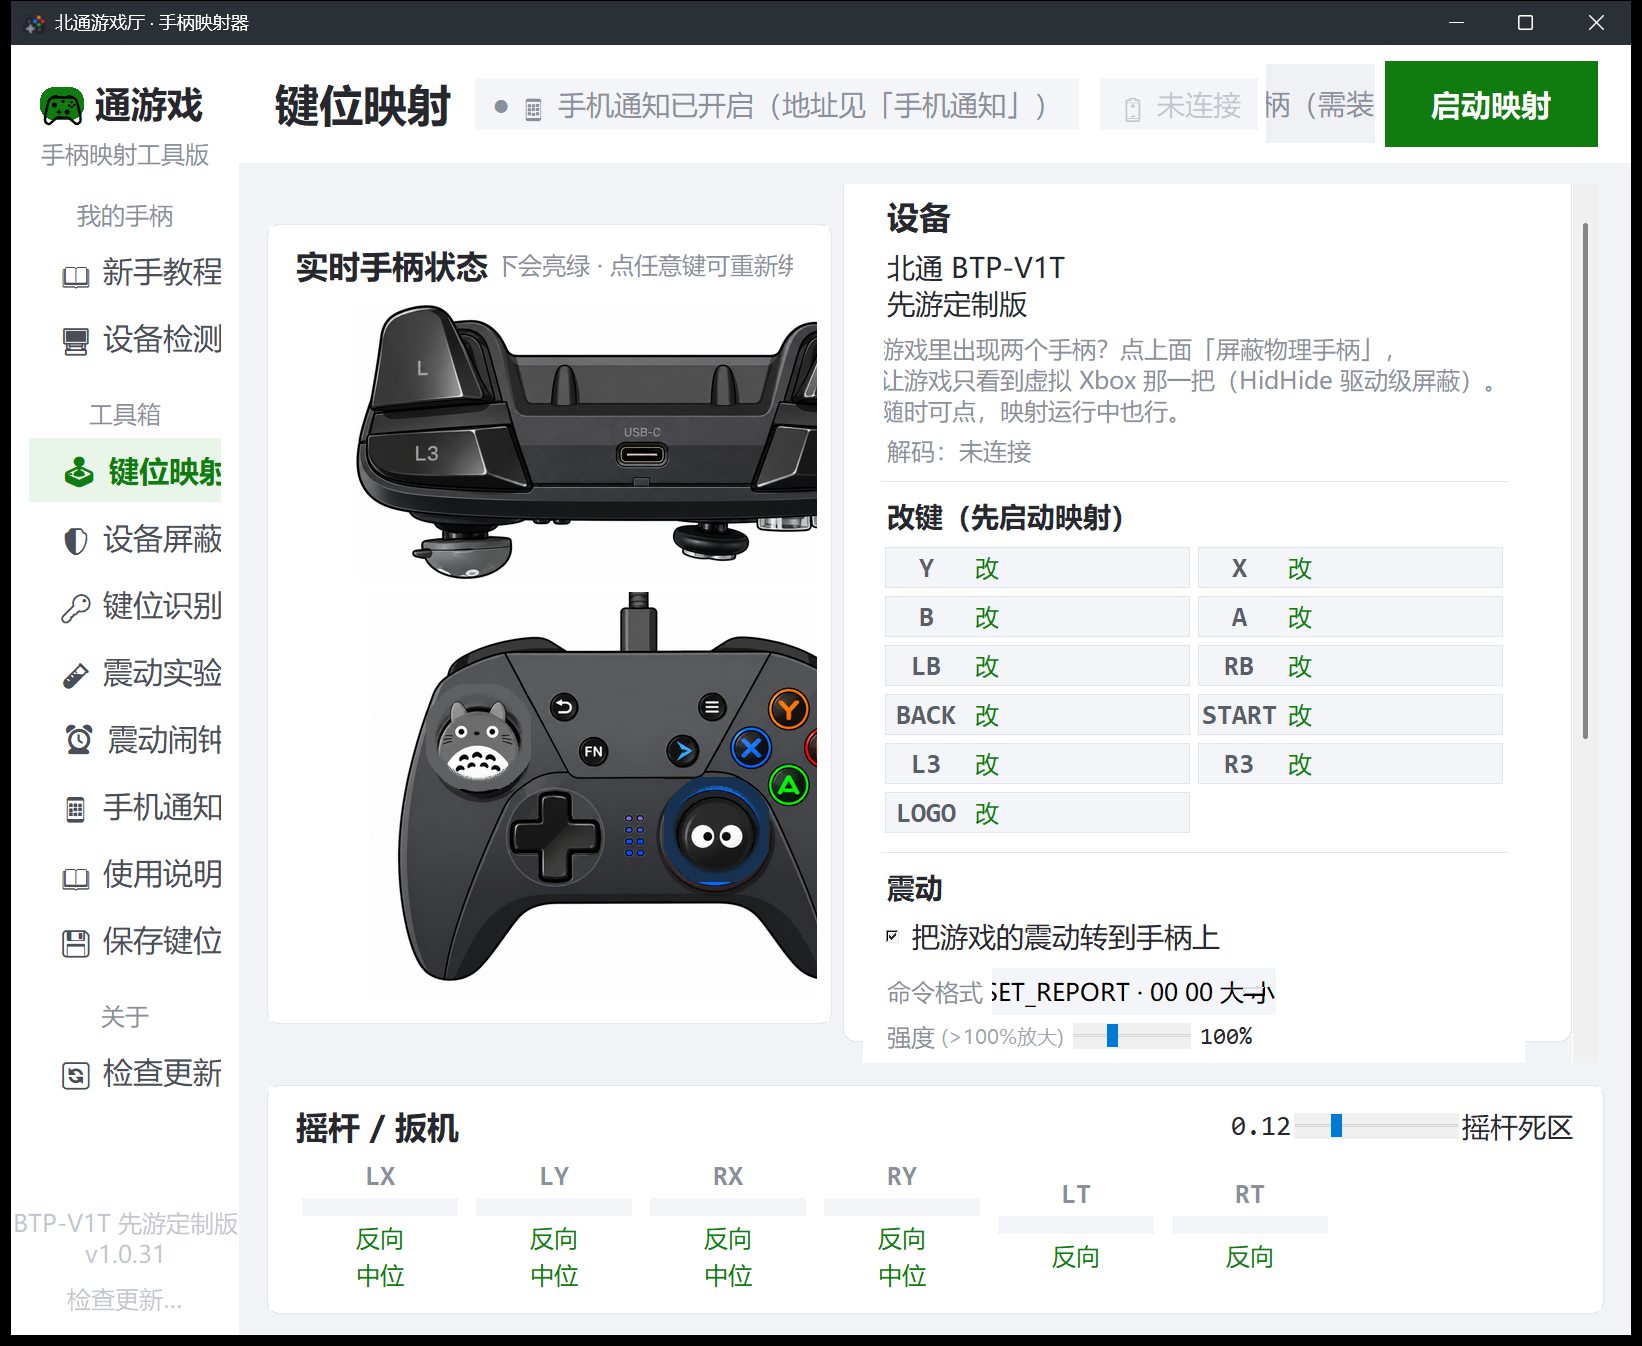
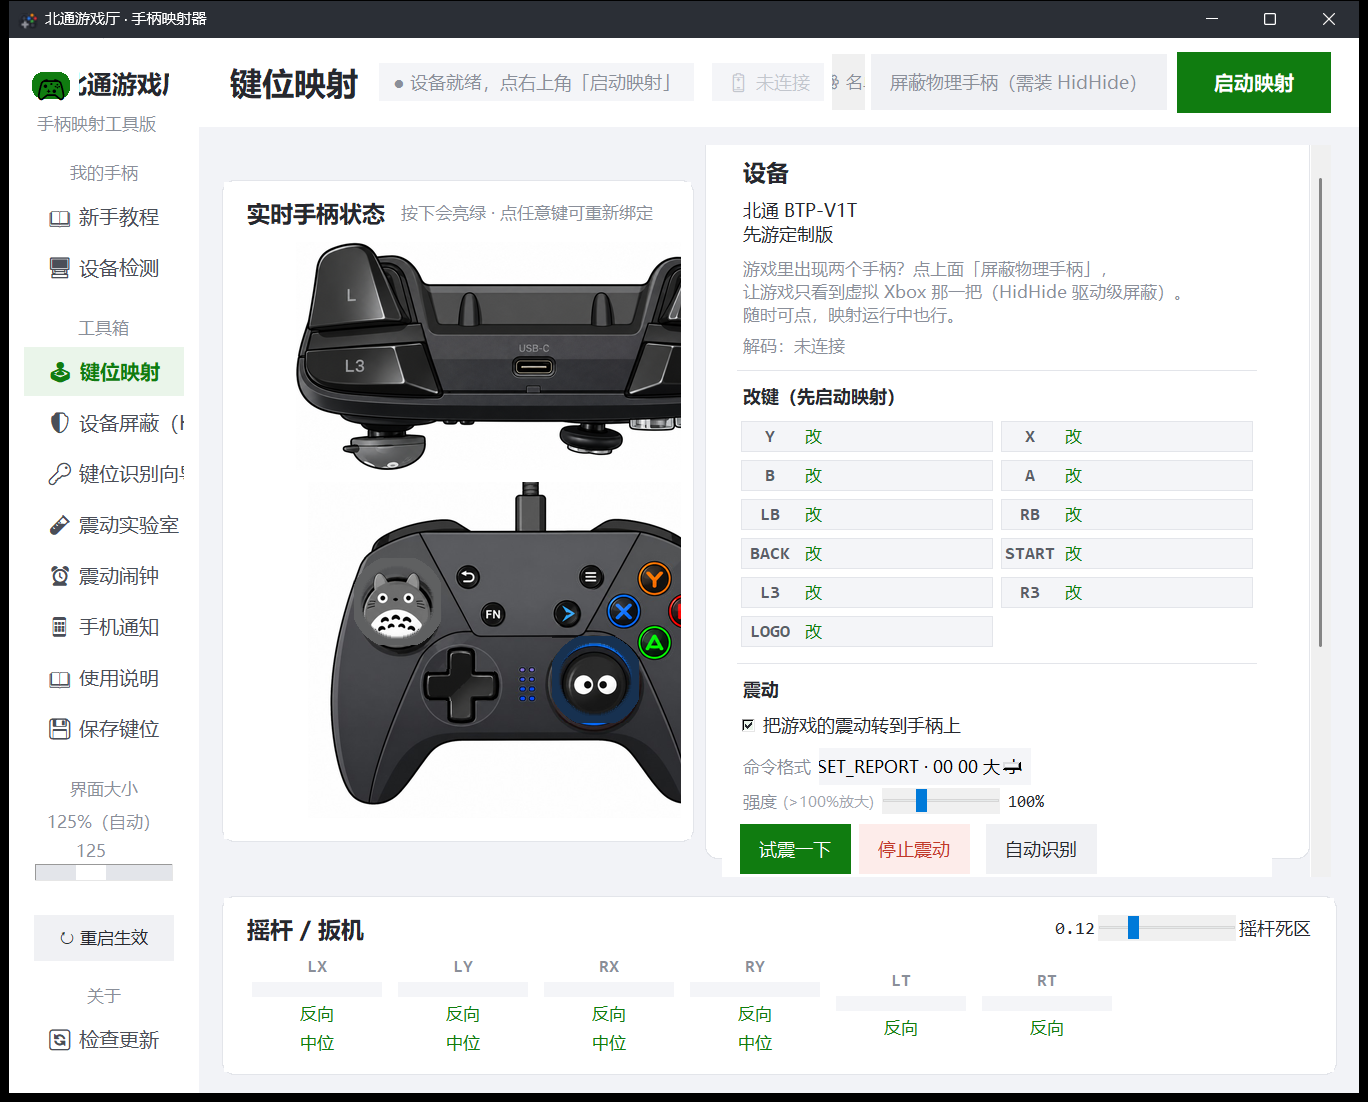
v1.0.32: 界面大小手动调节（80%~200% 滑块）+ 单实例更稳
- 侧栏新增「界面大小」滑块：80%~200%，松手保存到 keymap.json 的
  ui_scale（倍率），点「↻ 重启生效」自动重启；拖到与系统 DPI 一致的
  值显示（自动）并不落盘，继续跟随系统缩放
- padui.apply_user_scale(mult)：在建窗口前按 基准DPI×倍率 重设 SCALE
- 键位向导启动时读同一份 ui_scale，两个窗口字号一致
- 修复重启竞态：先退出旧进程释放单实例互斥、等窗口销毁后再拉新进程，
  否则新进程会被互斥挡掉，两边都没了
- 修复单实例僵尸锁：互斥在但窗口找不到时放行启动，不再永远打不开
- 使用说明补充滑块用法

diff --git a/gui.py b/gui.py
@@ -203,6 +203,67 @@ class App:
         else:
             self.quit_app()
 
+    # ------------------------------------------------------------ 界面大小
+    def _on_ui_scale_drag(self, _v=None):
+        """拖动中：只更新百分比标签"""
+        try:
+            v = int(self.ui_scale.get())
+            auto = int(round(padui.DPI / 96.0 * 100))
+            self.ui_scale_lbl.config(
+                text="%d%%%s" % (v, "（自动）" if v == auto else ""))
+        except Exception:
+            pass
+
+    def _on_ui_scale_done(self, _e=None):
+        """松手：存键位文件，提示重启生效"""
+        try:
+            v = int(self.ui_scale.get())
+        except Exception:
+            return
+        auto = int(round(padui.DPI / 96.0 * 100))
+        # 等于自动值就不落盘，跟着系统 DPI 走
+        if v == auto:
+            self.km.pop("ui_scale", None)
+        else:
+            self.km["ui_scale"] = round(v / (padui.DPI / 96.0) / 100.0, 4)
+        try:
+            betop.save_keymap(self.km)
+        except Exception:
+            pass
+        try:
+            self.ui_scale_hint.config(text="已保存，重启后生效")
+        except Exception:
+            pass
+
+    def _restart_app(self):
+        """重启自己：先存滑块值，干净退出（释放单实例互斥），再拉新进程。
+        顺序不能反——先起新进程的话，它检查互斥时旧进程还活着，
+        会被当成"已运行"直接激活旧窗口然后退出，两边都没了。"""
+        self._on_ui_scale_done()
+        try:
+            import subprocess
+            if getattr(sys, "frozen", False):
+                new = [sys.executable]
+            else:
+                new = [sys.executable, os.path.abspath(__file__)]
+        except Exception:
+            return
+        self.quit_app()               # 停震动/闹钟/托盘，释放互斥
+        # 等旧窗口真的销毁（互斥随进程退出释放）再拉新的，最多等 2 秒
+        for _ in range(20):
+            try:
+                if not self.root.winfo_exists():
+                    break
+            except Exception:
+                break
+            time.sleep(0.1)
+        time.sleep(0.2)
+        try:
+            subprocess.Popen(new)
+        except Exception:
+            pass
+        sys.exit(0)
+
     def quit_app(self):
         """真正退出：停映射、停震动、撤托盘"""
         try:
@@ -440,6 +501,32 @@ class App:
         nav_item("📱 手机通知", self.open_notify)
         nav_item("📖 使用说明", self.show_help)
         nav_item("💾 保存键位", self.save)
+        # 界面大小：滑块 80%~200%，松手保存，重启生效
+        nav_header("界面大小")
+        _auto_pct = int(round(padui.DPI / 96.0 * 100))
+        _cur = self.km.get("ui_scale")
+        _cur_pct = int(round(_cur * padui.DPI / 96.0 * 100)) if _cur else _auto_pct
+        self.ui_scale_lbl = tk.Label(
+            sb, text="%d%%%s" % (_cur_pct, "（自动）" if not _cur else ""),
+            font=FT(8), fg=C_SUB, bg=C_CARD)
+        self.ui_scale_lbl.pack(fill="x", padx=S(20))
+        self.ui_scale = tk.IntVar(value=_cur_pct)
+        sc = tk.Scale(sb, from_=80, to=200, orient="horizontal",
+                      variable=self.ui_scale, resolution=5,
+                      font=FT(8), fg=C_SUB, bg=C_CARD, troughcolor="#e3e5ea",
+                      highlightthickness=0, sliderrelief="flat",
+                      length=S(110), command=self._on_ui_scale_drag)
+        sc.pack(fill="x", padx=S(20))
+        sc.bind("<ButtonRelease-1>", self._on_ui_scale_done)
+        self.ui_scale_hint = tk.Label(
+            sb, text="", font=FT(7), fg=C_ACC, bg=C_CARD, anchor="w")
+        self.ui_scale_hint.pack(fill="x", padx=S(20), pady=(S(2), S(0)))
+        self.ui_btn = tk.Button(
+            sb, text="↻ 重启生效", font=FT(8), fg=C_TEXT, bg="#f0f1f4",
+            relief="flat", padx=S(8), pady=S(3), cursor="hand2",
+            command=self._restart_app)
+        self.ui_btn.pack(fill="x", padx=S(20), pady=(S(4), S(0)))
+
         nav_header("关于")
         nav_item("🔄 检查更新", self.open_update)
 
@@ -2013,10 +2100,17 @@ def _single_instance():
             return
         hwnd = ctypes.windll.user32.FindWindowW(None,
                                                "北通游戏厅 · 手柄映射器")
+        if not hwnd:
+            # 窗口可能刚在销毁/最小化中，再找一次；还找不到就放行——
+            # 免得留下一个只占互斥没有界面的僵尸进程，用户再也打不开
+            time.sleep(1.0)
+            hwnd = ctypes.windll.user32.FindWindowW(
+                None, "北通游戏厅 · 手柄映射器")
         if hwnd:
             ctypes.windll.user32.ShowWindow(hwnd, 9)       # SW_RESTORE
             ctypes.windll.user32.SetForegroundWindow(hwnd)
-        sys.exit(0)
+            sys.exit(0)
+        # 找不到窗口：放行，让新的起来（旧的残留自生自灭）
     except SystemExit:
         raise
     except Exception:
@@ -2028,6 +2122,13 @@ def main():
     # 150% 缩放的屏上字只有正常 2/3 大（padui 导入时也设过一次，这里双保险）
     try:
         padui.enable_dpi()
+    except Exception:
+        pass
+    # 用户手动界面大小（倍率，0/缺省=跟随系统 DPI），键位文件里存着
+    try:
+        _mult = betop.load_keymap().get("ui_scale")
+        if _mult:
+            padui.apply_user_scale(_mult)
     except Exception:
         pass
     _single_instance()

diff --git a/padui.py b/padui.py
@@ -84,6 +84,21 @@ elif SCALE > 3.0:
     SCALE = 3.0
 
 
+def apply_user_scale(mult):
+    """用户手动界面缩放（倍率，None/<=0 = 跟随系统 DPI）。
+    必须在建窗口前调用；FT()/S() 调用时才读 SCALE，所以随时改都生效。"""
+    global SCALE
+    base = DPI / 96.0
+    if base < 1.0:
+        base = 1.0
+    elif base > 3.0:
+        base = 3.0
+    if mult and float(mult) > 0:
+        SCALE = base * float(mult)
+    else:
+        SCALE = base
+
+
 def FT(size, weight="normal", family=None):
     """按系统 DPI 缩放的字体。size 按 96 DPI 下的磅值写，出来自动换算。"""
     return (family or FONT, max(6, int(round(size * SCALE))), weight)

diff --git a/wizard.py b/wizard.py
@@ -450,6 +450,13 @@ def main():
         padui.enable_dpi()
     except Exception:
         pass
+    # 跟主界面一样的用户界面大小设置
+    try:
+        _mult = betop.load_keymap().get("ui_scale")
+        if _mult:
+            padui.apply_user_scale(_mult)
+    except Exception:
+        pass
     root = tk.Tk()
     Wizard(root)
     root.mainloop()

diff --git a/updater.py b/updater.py
@@ -27,7 +27,7 @@ except Exception:
     def S(px):
         return px
 
-APP_VERSION = "1.0.31"
+APP_VERSION = "1.0.32"
 REPO = "huangjinkun2006/BetopXboxMapper"
 API_LATEST = "https://api.github.com/repos/%s/releases/latest" % REPO
 API_RELEASES = "https://api.github.com/repos/%s/releases?per_page=20" % REPO
